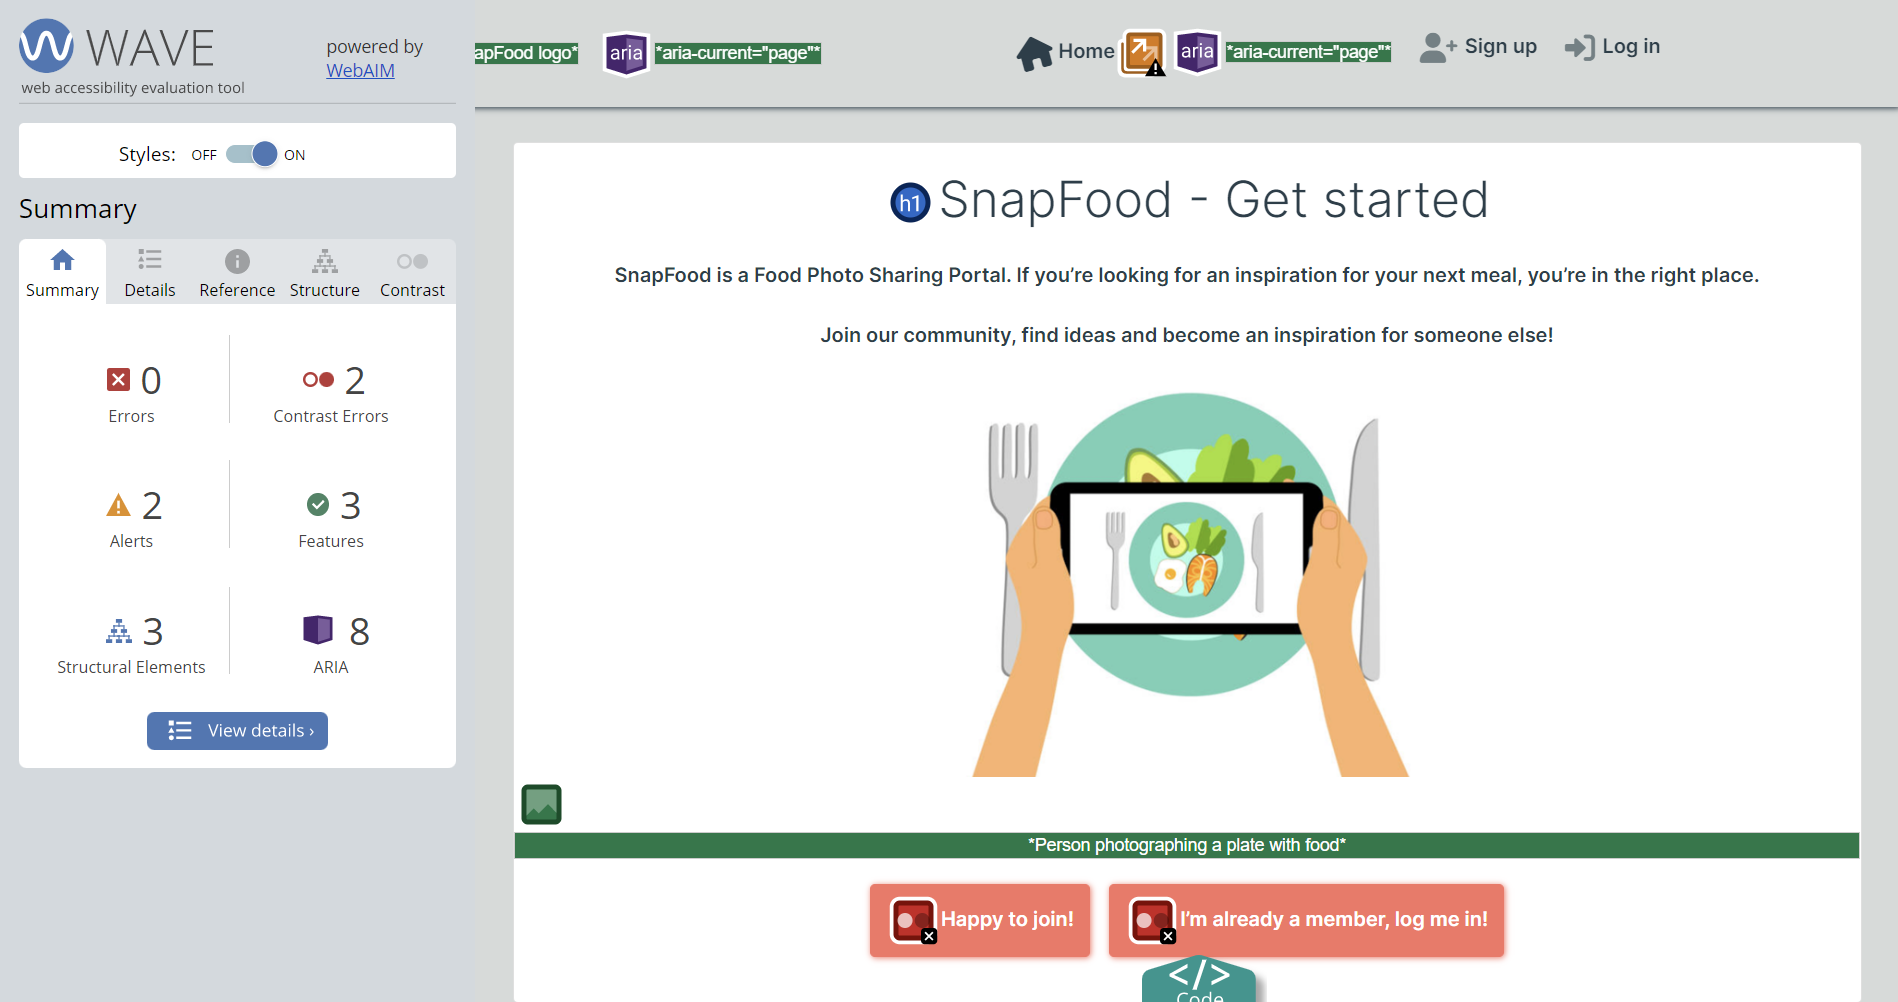
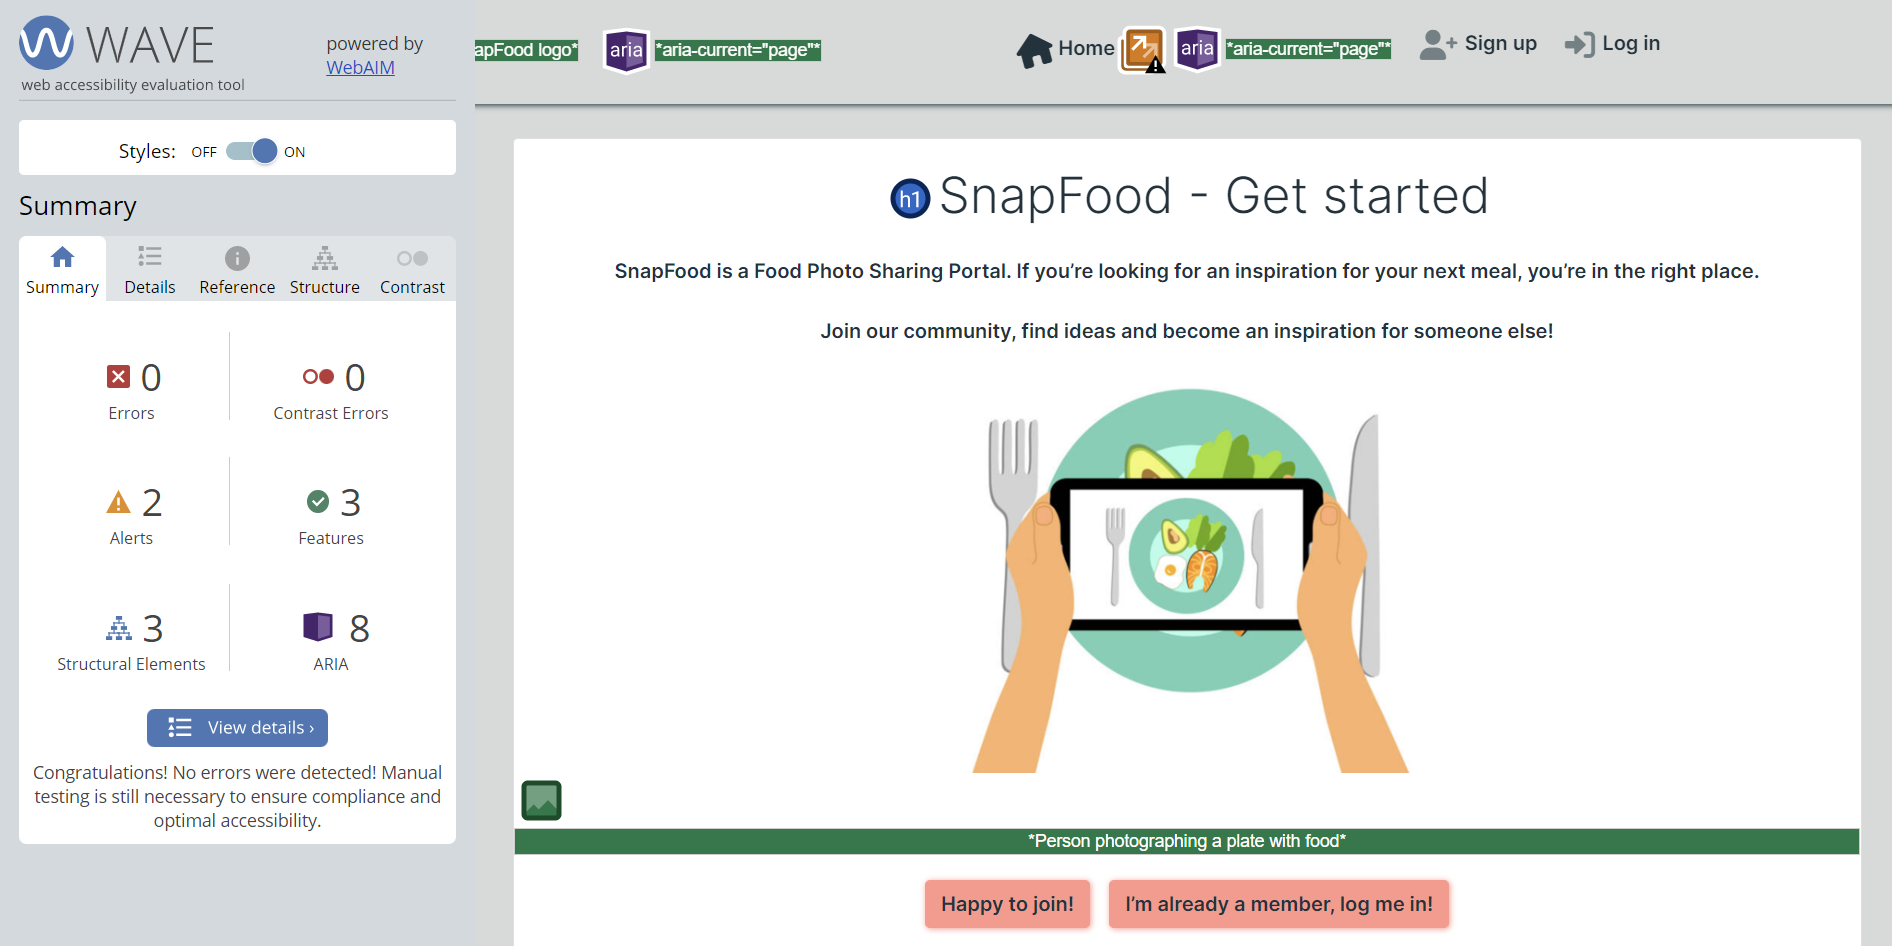
README: add wave validation; add missing labels to input fields

diff --git a/src/pages/posts/PostCreateForm.js b/src/pages/posts/PostCreateForm.js
@@ -95,6 +95,7 @@ function PostCreateForm() {
           className={appStyles.Input}
           value={title}
           onChange={handleChange}
+          aria-label="title"
         />
       </Form.Group>
 
@@ -113,6 +114,7 @@ function PostCreateForm() {
           className={appStyles.Input}
           value={category}
           onChange={handleChange}
+          aria-label="category"
         >
           <option>Select type of cousine</option>
           <option value="Spanish">Spanish</option>
@@ -147,6 +149,7 @@ function PostCreateForm() {
           className={appStyles.Input}
           value={description}
           onChange={handleChange}
+          aria-label="post description"
         />
       </Form.Group>
 

diff --git a/src/pages/posts/PostEditForm.js b/src/pages/posts/PostEditForm.js
@@ -117,6 +117,7 @@ function PostEditForm() {
           className={appStyles.Input}
           value={title}
           onChange={handleChange}
+          aria-label="title"
         />
       </Form.Group>
 
@@ -133,6 +134,7 @@ function PostEditForm() {
           className={appStyles.Input}
           value={category}
           onChange={handleChange}
+          aria-label="category"
         >
           <option>Select type of cousine</option>
           <option value="Spanish">Spanish</option>
@@ -167,6 +169,7 @@ function PostEditForm() {
           className={appStyles.Input}
           value={description}
           onChange={handleChange}
+          aria-label="post description"
         />
       </Form.Group>
 

diff --git a/src/pages/profiles/UserPasswordForm.js b/src/pages/profiles/UserPasswordForm.js
@@ -78,6 +78,7 @@ const UserPasswordForm = () => {
                 onChange={handleChange}
                 name="new_password1"
                 className={`${appStyles.Input} text-center`}
+                aria-label="new password"
               />
             </Form.Group>
 
@@ -96,6 +97,7 @@ const UserPasswordForm = () => {
                 onChange={handleChange}
                 name="new_password2"
                 className={`${appStyles.Input} text-center`}
+                aria-label="confirm new password"
               />
 
               <PasswordCriteria />

diff --git a/src/pages/comments/CommentCreateForm.js b/src/pages/comments/CommentCreateForm.js
@@ -57,6 +57,7 @@ function CommentCreateForm(props) {
           <Form.Control
             className={styles.Form}
             placeholder="share what you think..."
+            aria-label="comment input box"
             as="textarea"
             value={content}
             onChange={handleChange}

diff --git a/src/pages/profiles/ProfileEditForm.js b/src/pages/profiles/ProfileEditForm.js
@@ -118,6 +118,7 @@ const ProfileEditForm = () => {
           name="description"
           rows={7}
           className={appStyles.Input}
+          aria-label="profile description"
         />
       </Form.Group>
 

diff --git a/src/styles/PostCreateEditForm.module.css b/src/styles/PostCreateEditForm.module.css
@@ -3,7 +3,7 @@
 }
 
 .ButtonChangeImage {
-  color: #fff;
+  color: var(--dark-slate-grey);
   padding: 7px;
 }
 

diff --git a/README.md b/README.md
@@ -568,6 +568,7 @@ Lighthouse was used to test the performance, accessibility, best practice and SE
 
 ### Wave
 The WAVE WebAIM web accessibility evaluation tool was used to test the websites accessibility.
+There were a few errors related to missing labels and contrast issues on buttons. These errors were rectified.
 
 <details><summary>Landing page</summary>
 <img src="docs/validation/wave-landing-page.png">
@@ -583,6 +584,30 @@ The WAVE WebAIM web accessibility evaluation tool was used to test the websites 
 
 <details><summary>Main posts page</summary>
 <img src="docs/validation/wave-main-posts-page.png">
+</details>
+
+<details><summary>Post page</summary>
+<img src="docs/validation/wave-post-page.png">
+</details>
+
+<details><summary>Post edit page</summary>
+<img src="docs/validation/wave-post-edit-page.png">
+</details>
+
+<details><summary>Post edit page</summary>
+<img src="docs/validation/wave-post-edit-page.png">
+</details>
+
+<details><summary>Profile page</summary>
+<img src="docs/validation/wave-profile-page.png">
+</details>
+
+<details><summary>Profile edit page</summary>
+<img src="docs/validation/wave-profile-edit-page.png">
+</details>
+
+<details><summary>Password change page</summary>
+<img src="docs/validation/wave-password-change-page.png">
 </details>
 
 ##### Back to [top](#table-of-contents)
@@ -1088,6 +1113,7 @@ Testing has been carried out on the following browsers:
 | On small screens, clicking on the hamburger menu and then on user avatar/ user name was not displaying the dropdown menu with ‘Profile’ & ‘Logout’ options | Added a class to the Avatar component, and a div in the ‘loggedInNavBar’ dropdown. In the ‘useClickOutsideToggle’ hook added a check to see if element is the one we don’t want to cause the collapse of navbar |
 | The time under the post was displayed in UTC instead of the local time post was added | Unsuccessful fix. Added 'USE_TZ = True' in back-end settings but it didn't work as expected. Time fix is a future improvement |
 | Wave validator: Empty link | Add 'aria-label'|
+| Wave validator: Contrast errors | Change shade of initially set color 'salmon' and change font color from white to 'dark-slate-grey' on buttons |
 
 ##### Back to [top](#table-of-contents)
 
